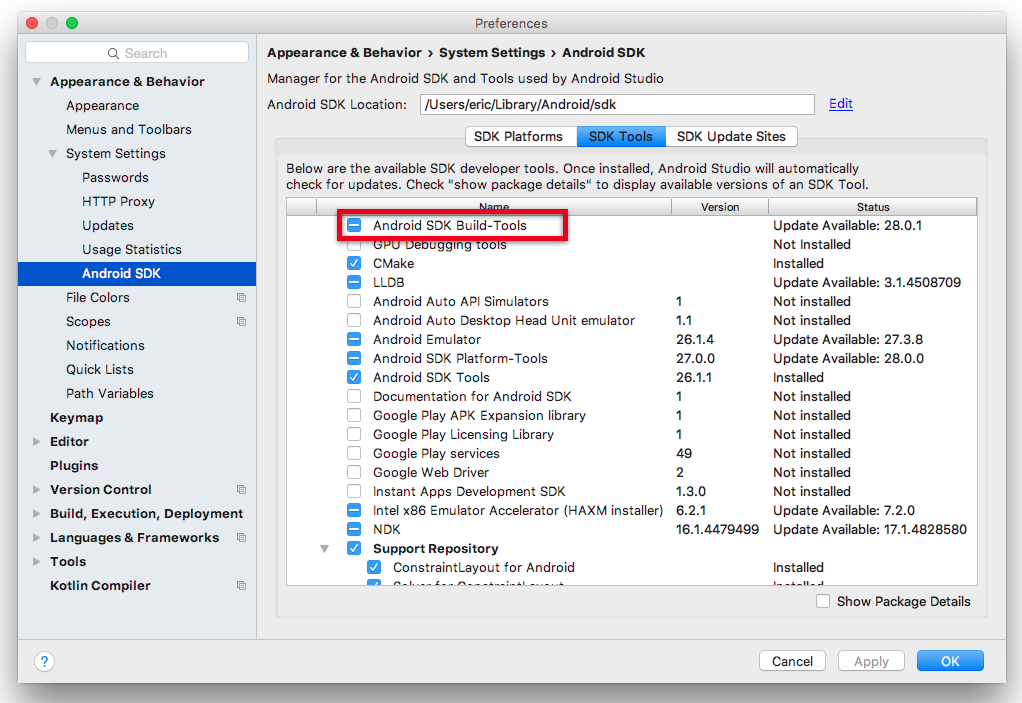
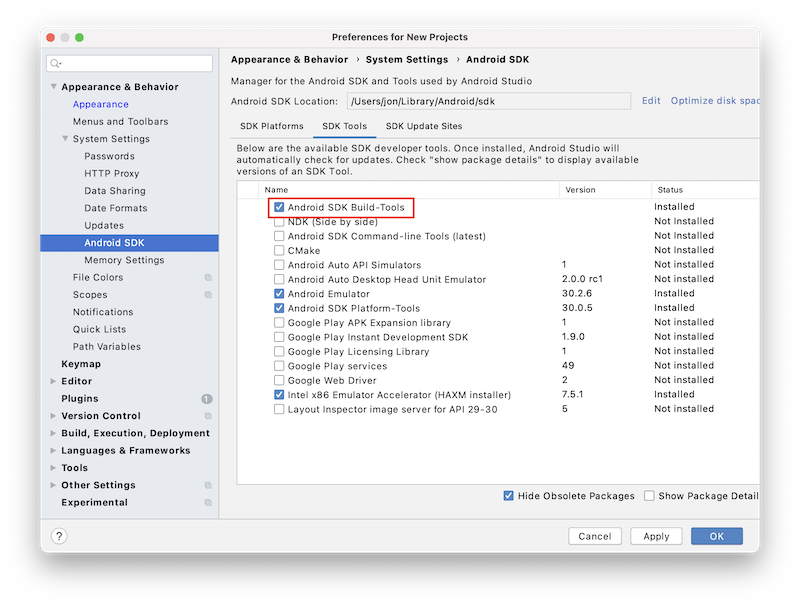
[docs] Updates Android Emulator guide screenshots (#11158)

Changed region(s): [[0.0, 0.0, 1.0, 1.0], [0.25, 0.7723, 0.2812, 0.8317]]

diff --git a/docs/pages/workflow/android-studio-emulator.md b/docs/pages/workflow/android-studio-emulator.md
@@ -8,9 +8,11 @@ If you don't have an Android device available to test with, we recommend using t
 
 - [Download](https://developer.android.com/studio) and install Android Studio 3.0+.
 
-- Go to Preferences -> Appearance & Behavior -> System Settings -> Android SDK. Click on the "SDK Tools" tab and make sure you have at least one version of the "Android SDK Build-Tools" installed.
+- Select "Standard" for the "Install Type" inside the wizard.
 
-![Android SDK location](/static/images/android-studio-build-tools.png)
+- Inside Android Studio, go to Preferences > Appearance & Behavior > System Settings > Android SDK. Click on the "SDK Tools" tab and make sure you have at least one version of the "Android SDK Build-Tools" installed.
+
+![Android SDK build tools](/static/images/android-studio-build-tools.png)
 
 - Copy or remember the path listed in the box that says "Android SDK Location."
 
@@ -33,11 +35,13 @@ echo "export PATH=$HOME/Library/Android/sdk/platform-tools:\$PATH" >> ~/`[[ $SHE
 
 ## Step 2: Set up a virtual device
 
-- From the Android Studio main screen, go to `Tools -> AVD Manager`.
+- On the Android Studio main screen, click "Configure", then "AVD Manager" in the dropdown.
+
+![Android Studio configure](/static/images/android-studio-configure.png)
 
 - Press the "+ Create Virtual Device" button.
 
-![Android SDK location](/static/images/android-studio-avd-manager.png)
+![Android Studio create virtual device](/static/images/android-studio-avd-manager.png)
 
 - Choose the type of hardware you'd like to emulate. We recommend testing against a variety of devices, but if you're unsure where to start, the newest device in the Pixel line could be a good choice.
 
